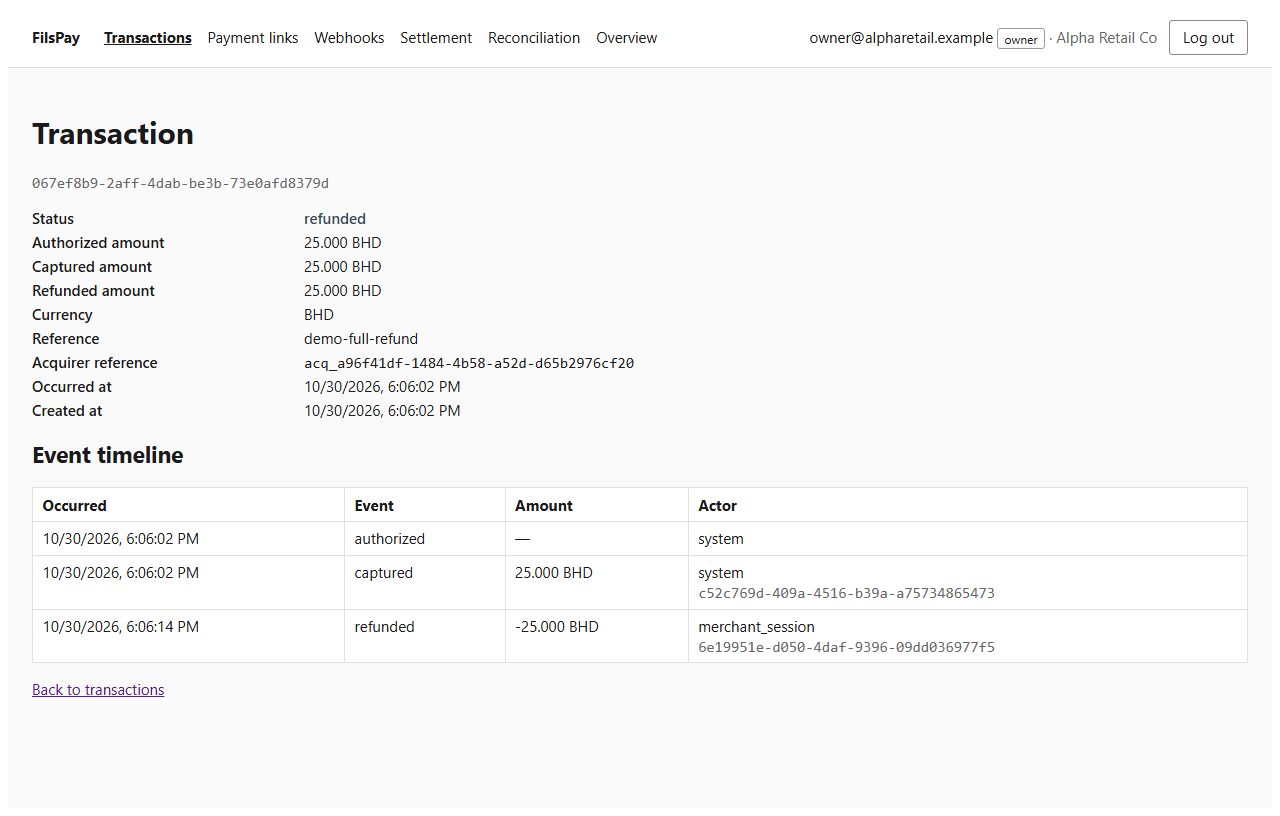
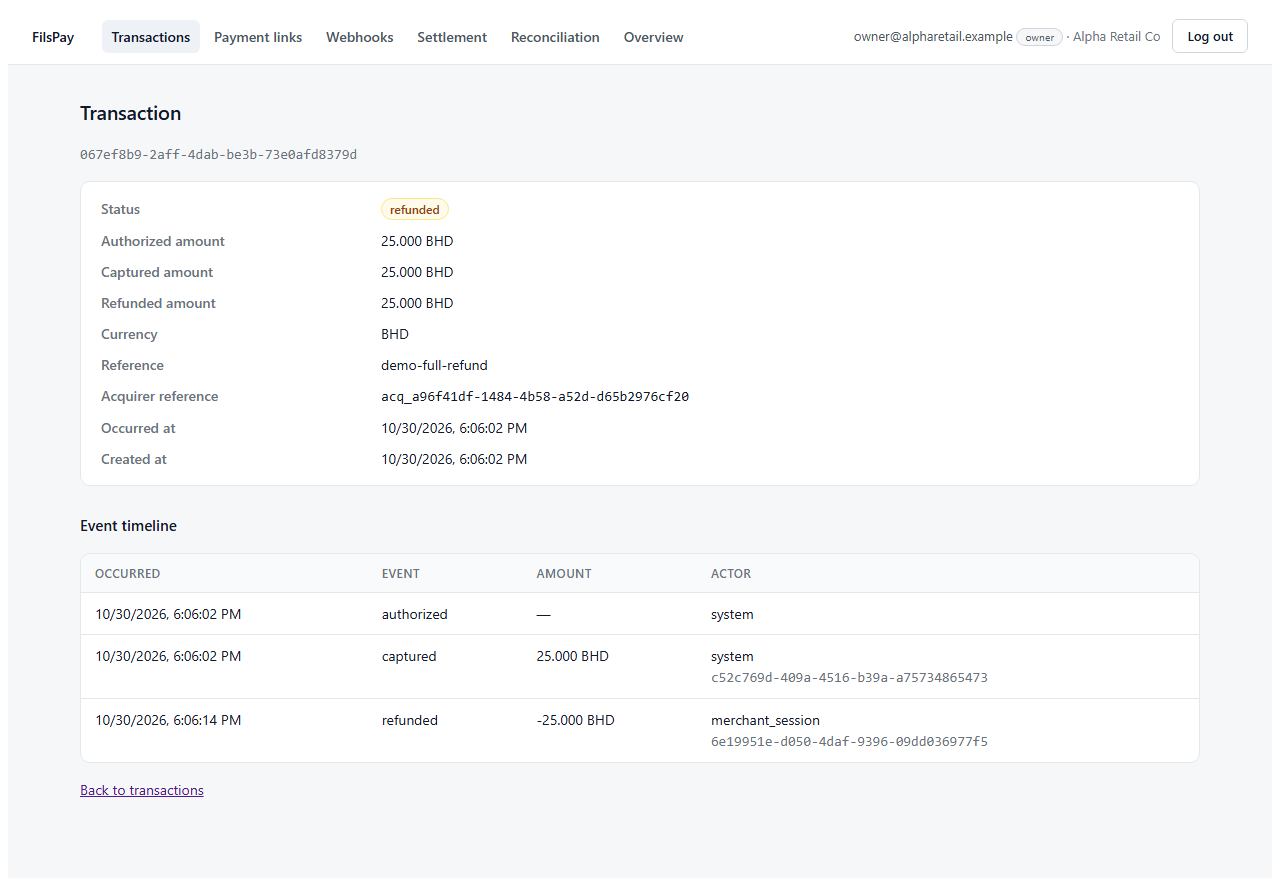
docs(slides): proof slide replaces decisions; refund screenshots retaken on the new UI

diff --git a/docs/submission/slides.html b/docs/submission/slides.html
@@ -169,20 +169,18 @@
 
 
 
-<!-- 11. Decisions -->
+<!-- 11. Proof -->
 <section class="slide">
-  <div class="kicker">Decisions and open risks</div>
-  <h1>What we chose not to change, and what is still open</h1>
-  <ul>
-    <li><b>We fixed the code, not history.</b> Past rows (10× CSV corrections, rewritten paid batches, unbooked residue) need a correction reviewed by finance. We ran none.</li>
-    <li><b>Owner sign-off needed:</b> ADR-0007 (rebuild balances from the ledger), and migrations 0054–0056 still breaking ADR-0005.</li>
-    <li><b>Demo box only:</b> the OTP is shown in the login response so judges can sign in. Production must turn this off.</li>
-    <li><b>Next limit:</b> one database user for every service, backups on the same disk, and a single vCPU.</li>
-  </ul>
+  <div class="kicker">Proof it holds</div>
+  <h1>Every fix tested, every fil accounted for</h1>
+  <div class="grid3" style="margin-top:6px">
+    <div class="card"><div class="big">664</div><p>TypeScript tests, <b>0 failures</b>, on freshly migrated databases. All 7 Go packages pass with the database tests actually running.</p></div>
+    <div class="card"><div class="big">79</div><p>findings, each with its own commit and a test that <b>failed before</b> the fix. Tests that locked bugs in were corrected, with the rule cited.</p></div>
+    <div class="card"><div class="big">56,134</div><p>live ledger entries checked read-only: every entry group <b>balances</b>, no refund exceeds its capture, no card hold left open.</p></div>
+  </div>
+  <p style="margin-top:22px">Live on Dilmune Cloud: TLS, one-command redeploy that refuses the settlement window, nightly backups, a crash comes back in about 7 seconds, and overload gets a 503 in milliseconds.</p>
   <div class="num">8</div>
 </section>
-
-
 
 <!-- Appendix -->
 <section class="slide">
